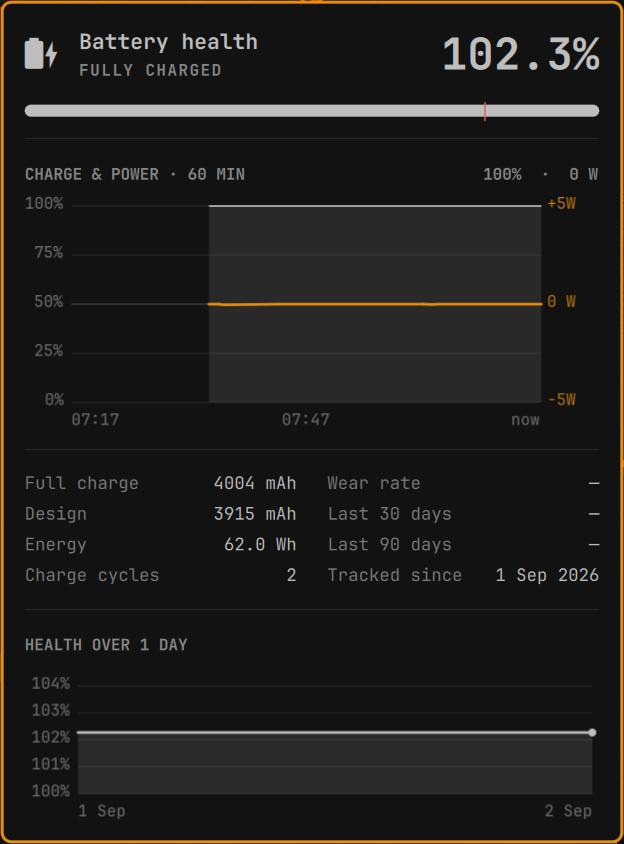
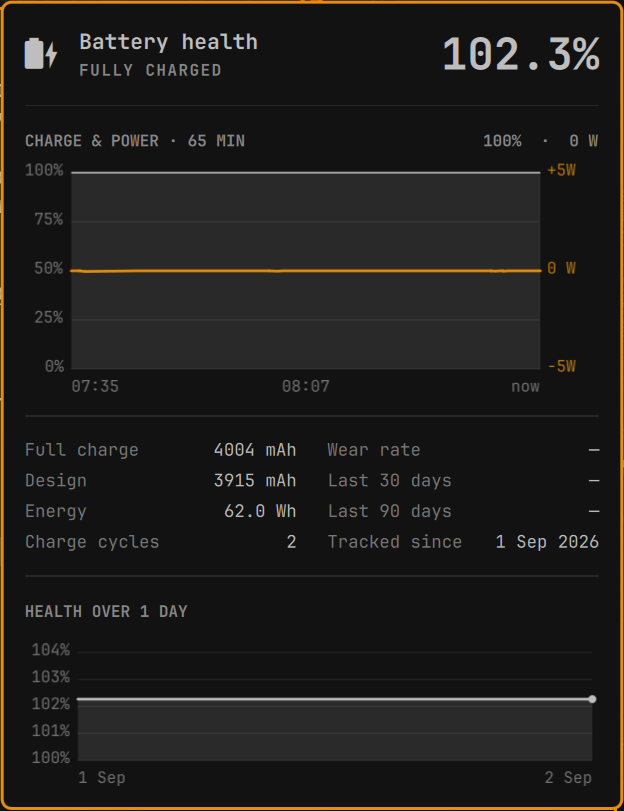
refactor: drop the capacity-retention bar from the panel
The bar under the hero drew capacity retention on a 0-100% scale with a tick at the 80% end-of-life
line. It was ambiguous and nearly information-free, and it went.

Ambiguous because a horizontal 0-100% bar sat between a large percentage and a graph whose first
series is charge, while the bar widget that opens the panel also reads charge — every neighbouring
cue said "charge level" and nothing on it said "retention". Its 80% tick was unlabelled, easily read
as a charge limit, which is a real feature on this hardware.

Nearly information-free because the fill clamped at 100%: a pack rated conservatively at the factory
reads above nominal and renders identically to one at exactly 100%, so on a healthy battery the bar
is full and motionless for years. The hero percentage and the health graph already carry the number,
and the graph carries it better by showing movement.

Removing it orphaned two QML ids, initProc and sampleTimer, the latter left unreferenced when its
debug logging came out; both are gone. Nothing else orphaned: healthColor, probeHealth and
END_OF_LIFE_PCT still serve the hero, the graph's end-of-life line, and the wear projection.

preview.png is retaken against the current panel, since a screenshot documenting a removed element
is worse than no screenshot.

diff --git a/Panel.qml b/Panel.qml
@@ -440,7 +440,6 @@ Panel {
   }
 
   Process {
-    id: initProc
     command: ["mkdir", "-p", root.stateDir]
     running: true
     onExited: {
@@ -479,7 +478,6 @@ Panel {
   // re-fire it. The events below already cover those transitions, and
   // onReadyChanged covers the first sample.
   Timer {
-    id: sampleTimer
     interval: root.sampleSeconds * 1000
     running: root.ready
     repeat: true
@@ -641,40 +639,6 @@ Panel {
             font.bold: true
             anchors.right: parent.right
             anchors.verticalCenter: parent.verticalCenter
-          }
-        }
-
-        // ---------- Retention bar, with the 80% end-of-life mark ----------
-        Item {
-          width: parent.width
-          implicitHeight: Style.space(8)
-          visible: root.batteryPresent
-
-          Rectangle {
-            id: wearTrack
-            anchors.fill: parent
-            radius: height / 2
-            color: Qt.rgba(root.fg.r, root.fg.g, root.fg.b, 0.12)
-          }
-
-          Rectangle {
-            anchors.left: wearTrack.left
-            anchors.verticalCenter: wearTrack.verticalCenter
-            height: wearTrack.height
-            radius: wearTrack.radius
-            color: root.healthColor
-            // Retention above 100% is real — firmware often rates a fresh pack
-            // conservatively — but the bar has nowhere to put it, so it clamps.
-            width: Math.max(wearTrack.height,
-                            wearTrack.width * Math.max(0, Math.min(1, Model.probeHealth(root.probe) / 100)))
-          }
-
-          Rectangle {
-            width: 1
-            height: wearTrack.height + Style.space(4)
-            anchors.verticalCenter: wearTrack.verticalCenter
-            x: wearTrack.width * (Model.END_OF_LIFE_PCT / 100)
-            color: Qt.rgba(Color.urgent.r, Color.urgent.g, Color.urgent.b, 0.7)
           }
         }
 

diff --git a/README.md b/README.md
@@ -51,7 +51,7 @@ Several of these deliberately show `—` rather than a number:
 - **Last 30 / 90 days** appear only once the history actually reaches back that far, instead of quietly comparing against the oldest sample on hand.
 - **Reaches 80%** appears only for a battery that is actually declining.  A flat or improving one would need a fabricated slope to produce a date, and a pack already below 80% has nothing left to project.
 
-The 80% line is drawn on the health graph, and on the retention bar, only when it is in view — a healthy battery is not permanently reminded of its mortality.
+The 80% line is drawn on the health graph only when it is in view — a healthy battery is not permanently reminded of its mortality.
 
 One thing worth being blunt about: health is the battery controller's own self-report.  `charge_full` is the firmware's estimate of present full capacity, and it only updates when the firmware recalibrates — usually after a full charge.  This plugin measures nothing itself; it does not integrate the watt-hours from the charge and power series to derive capacity independently.  So health here means *what the pack's controller currently claims it can hold, against its nameplate*.  It moves in steps rather than smoothly, and a pack held at a charge limit that never recalibrates can read optimistically.
 
